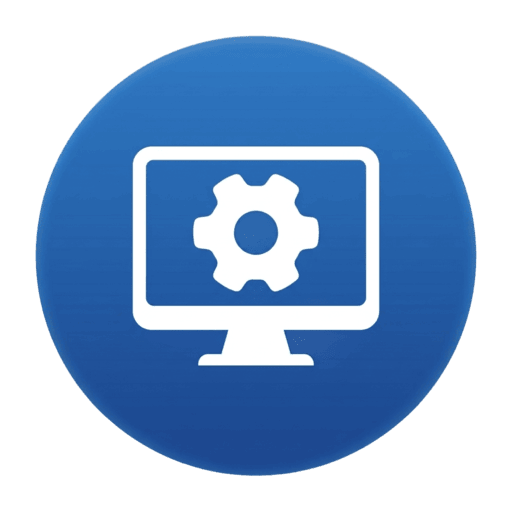
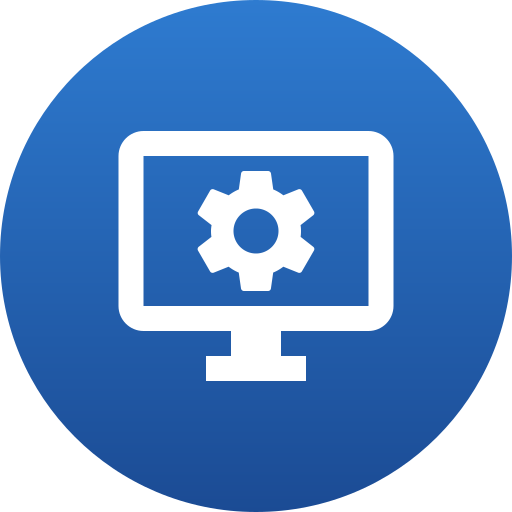
update UPSTREAM.md and graphic images and add GRAPHICS_LICENSE.md

diff --git a/GRAPHICS_LICENSE.md b/GRAPHICS_LICENSE.md
@@ -1,0 +1,101 @@
+# Graphics: sources and licenses
+
+This document lists every icon, logo and image shipped with MultiBooter, where
+it comes from and under which license it is distributed.
+
+MultiBooter itself is licensed under `GPL-3.0-or-later`. The vector icons
+listed in section 1 are derived from Google's Material Icons and keep their
+own license, `Apache-2.0`. Apache-2.0 is compatible with GPL-3.0, so both can
+be combined in one application.
+
+---
+
+## 1. Vector icons (Material Icons)
+
+| File in `res/drawable/` | Material Icons name | Style |
+| --- | --- | --- |
+| `battery.xml` | `battery_charging_full` | filled |
+| `bell.xml` | `notifications` | filled |
+| `boot_gadget.xml` | `usb` | filled |
+| `boot_tftp.xml` | `dns` | filled |
+| `cdrom_to_usb.xml` | `album` | filled |
+| `folder.xml` | `folder` | filled |
+| `hash.xml` | `tag` | filled |
+| `ventoy_bootable_usb.xml` | `usb` | filled |
+| `ic_home.xml` | `home` | filled |
+| `ic_hamburger.xml` | `menu` | filled |
+| `ic_about.xml` | `info` | outlined |
+| `ic_settings.xml` | `settings` | filled |
+| `ic_coffee.xml` | `coffee` | filled |
+
+- **Author / source:** Google, Material Icons.
+- **Obtained from:** npm package `@material-design-icons/svg`, version `0.14.15`.
+- **License:** Apache License 2.0. The license text is included unchanged in
+  `LICENSES/Apache-2.0-MaterialIcons.txt`.
+- **Changes made by MultiBooter:** each SVG was converted to an Android
+  `VectorDrawable` XML file. The fill color and the drawable size were set for
+  use in the app. The icon geometry was not edited. Each XML file carries a
+  comment naming its source icon.
+- **NOTICE file:** the `0.14.15` package contains no `NOTICE` file, so there are
+  no additional attribution notices to reproduce.
+
+---
+
+## 2. App logo and launcher icon
+
+| File | Description |
+| --- | --- |
+| `res/drawable/ic_launcher_foreground.xml` | Adaptive launcher icon, foreground layer |
+| `res/drawable/ic_launcher_background.xml` | Adaptive launcher icon, background layer (blue gradient) |
+| `res/drawable/logo.xml` | Logo used on the splash screen and the intro slide |
+| `res/mipmap-anydpi-v26/ic_launcher.xml` | Adaptive icon definition |
+| `fastlane/metadata/android/en-US/images/icon.png` | 512x512 store icon, rendered from the same artwork |
+
+- **Source:** the logo is a composition of two Material Icons: the outlined
+  `desktop_windows` (monitor) and the filled `settings` (gear), with the gear
+  scaled to half size and placed inside the monitor screen.
+- **License of the Material-derived geometry:** Apache License 2.0 (see
+  section 1).
+- **License of the composition** (the arrangement, the colors and the gradient
+  background): `GPL-3.0-or-later`, by the MultiBooter authors.
+- **Changes made:** the path data was scaled and positioned; the transforms are
+  baked into the path data so the files render the same in tools that ignore
+  `<group>` transforms.
+
+---
+
+## 3. Other drawables, layouts and shapes
+
+All other XML drawables, shape drawables, layouts and styles in `res/`
+(for example `boot_card.xml` and `boot_option_selected.xml`) are original work
+of the MultiBooter authors, licensed under `GPL-3.0-or-later`.
+
+---
+
+## 4. Screenshots
+
+The images in `fastlane/metadata/android/*/images/phoneScreenshots/` are
+screenshots of MultiBooter's own user interface and are licensed under
+`GPL-3.0-or-later`.
+
+---
+
+## 5. Third-party images
+
+No third-party raster images are shipped in the application resources or in
+the vendored sources.
+
+- The vendored dnsmasq tree omits upstream's `logo/` and `contrib/` folders
+  (see `src/native/dnsmasq/UPSTREAM.md`).
+- Boot assets (`boot.img`, `core.img`, `ventoy.disk.img`) are documented in
+  `ASSET_PROVENANCE.md`.
+
+---
+
+## 6. Adding or changing graphics
+
+Before committing a new image or icon, add a row to this file with its source,
+author and license. Only add material whose license allows modification and
+redistribution in a GPL-3.0-or-later application (for example CC0, CC BY,
+MIT, Apache-2.0 or GPL). Do not add images whose license is unknown, or that
+only permit personal use, or that forbid redistribution.

diff --git a/src/native/dnsmasq/UPSTREAM.md b/src/native/dnsmasq/UPSTREAM.md
@@ -20,7 +20,7 @@ is built.
 | Version | `2.93` |
 | Release tarball | `dnsmasq-2.93.tar.gz` |
 | Tarball URL | https://thekelleys.org.uk/dnsmasq/dnsmasq-2.93.tar.gz |
[1 lines of base64/hex data omitted]
+| Tarball SHA-256 | `REPLACE_WITH_SHA256_OF_THE_TARBALL_YOU_USED` |
 
 The code is an official release tarball. It is not a git snapshot and not
 a distribution package.
@@ -36,7 +36,7 @@ The tarball was extracted into this directory, with its top-level
 rm -rf src/native/dnsmasq
 mkdir -p src/native/dnsmasq
 tar -xf dnsmasq-2.93.tar.gz --strip-components=1 -C src/native/dnsmasq
-rm -rf src/native/dnsmasq/contrib
+rm -rf src/native/dnsmasq/contrib src/native/dnsmasq/logo
 ```
 
 The result is that the C sources are located at:
@@ -51,12 +51,16 @@ which is the path `build.sh` compiles from.
 
 ```text
 contrib/
+logo/
 ```
 
-`contrib/` holds third-party packaging helpers for other platforms
-(Slackware, Webmin, old macOS packaging). It is not used by the MultiBooter
-build. It also contains opaque archives (`*.gz`, `*.wbm`), so it was left out
-to keep the source tree easy to audit.
+- `contrib/` holds third-party packaging helpers for other platforms
+  (Slackware, Webmin, old macOS packaging). It is not used by the MultiBooter
+  build. It also contains opaque archives (`*.gz`, `*.wbm`), so it was left out
+  to keep the source tree easy to audit.
+- `logo/` holds the dnsmasq logo images. They are not used by MultiBooter, and
+  the upstream `logo/README` states only who contributed the logo and gives no
+  license for it, so it was left out.
 
 Nothing else was removed, added or edited. In particular:
 
@@ -86,7 +90,7 @@ sha256sum dnsmasq-2.93.tar.gz        # must match section 1
 mkdir /tmp/dnsmasq-upstream
 tar -xf dnsmasq-2.93.tar.gz --strip-components=1 -C /tmp/dnsmasq-upstream
 
-diff -r --exclude=contrib --exclude=UPSTREAM.md \
+diff -r --exclude=contrib --exclude=logo --exclude=UPSTREAM.md \
     /tmp/dnsmasq-upstream src/native/dnsmasq
 ```
 
